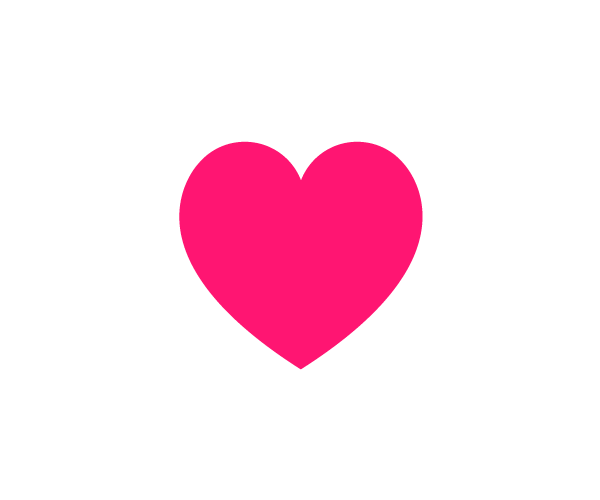
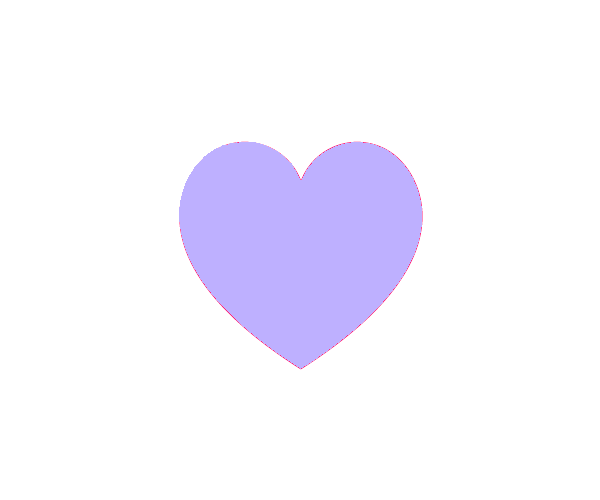
[Design]Css Fix

Changed region(s): [[0.3, 0.27, 0.72, 0.75]]

diff --git a/templates/theater/chart_list.html b/templates/theater/chart_list.html
@@ -39,8 +39,8 @@
                     
                     <div class="swiper-slide">
                       <a data-bs-toggle="modal" data-bs-target="#Modalwhite">
-                      <div class="card my-3" style="width: 100%">
-                        <img src="{{row1.poster.url}}" class="card-img-top" alt="...">
+                      <div class="card my-3" style="width: 100%;height:100%;">
+                        <img src="{{row1.poster.url}}" class="card-img-top" alt="..." style="height: 40rem;">
                         <div class="card-body movie_chart_border">
                           <h5 class="card-title text-center">{{row1.title}}</h5>
                           <span class="stars text-dark me-2 d-flex justify-content-center">{{row1.rating}}</span>
@@ -52,8 +52,8 @@
                     {%else%}
                     <div class="swiper-slide">
                         <a href="{% url 'theater:movie_detail' row1.id %}">
-                        <div class="card" style="width: 100%;">
-                            <img src="{{row1.poster.url}}" class="card-img-top" alt="...">
+                        <div class="card" style="width: 100%; border-radius: 0!important;;">
+                            <img src="{{row1.poster.url}}" class="card-img-top" alt="..." style="height: 40rem;">
                             <div class="card-body movie_chart_border">
                               <h5 class="card-title text-center">{{row1.title}}</h5>
                               <span class="stars text-dark me-2 d-flex justify-content-center">{{row1.rating}}</span>
@@ -117,8 +117,8 @@
                     {%if row2.genre == '성인물(에로)' and current_user.age <= 19%}
                     <div class="swiper-slide">
                       <a data-bs-toggle="modal" data-bs-target="#Modalwhite">
-                      <div class="card" style="width: 100%">
-                          <img src="{{row2.poster.url}}" class="card-img-top" alt="...">
+                      <div class="card" style="width: 100%; border-radius: 0!important;">
+                          <img src="{{row2.poster.url}}" class="card-img-top" alt="..." style="height: 40rem;">
                           <div class="card-body movie_chart_border">
                             <h5 class="card-title text-center">{{row2.title}}</h5>
                             <span class="stars text-dark me-2 d-flex justify-content-center">{{row2.rating}}</span>
@@ -130,8 +130,8 @@
                     {%else%}
                     <div class="swiper-slide">
                         <a href="{% url 'theater:movie_detail' row2.id %}">
-                        <div class="card" style="width: 100%">
-                            <img src="{{row2.poster.url}}" class="card-img-top" alt="...">
+                        <div class="card" style="width: 100%; border-radius: 0!important;">
+                            <img src="{{row2.poster.url}}" class="card-img-top" alt="..." style="height: 40rem;">
                             <div class="card-body movie_chart_border">
                               <h5 class="card-title text-center">{{row2.title}}</h5>
                               <span class="stars text-dark me-2 d-flex justify-content-center">{{row2.rating}}</span>
@@ -178,8 +178,8 @@
                   
                   <div class="swiper-slide">
                     <a data-bs-toggle="modal" data-bs-target="#Modalwhite">
-                    <div class="card" style="width: 100%">
-                        <img src="{{row3.poster.url}}" class="card-img-top" alt="...">
+                    <div class="card" style="width: 100%; border-radius: 0!important;">
+                        <img src="{{row3.poster.url}}" class="card-img-top" alt="..." style="height: 40rem;">
                         <div class="card-body movie_chart_border">
                           <h5 class="card-title text-center">{{row3.title}}</h5>
                           <span class="stars text-dark-2 d-flex justify-content-center">{{row3.rating}}</span>
@@ -192,8 +192,8 @@
                   {%else%}
                   <div class="swiper-slide">
                       <a href="{% url 'theater:movie_detail' row3.id %}">
-                      <div class="card" style="width: 100%">
-                          <img src="{{row3.poster.url}}" class="card-img-top" alt="...">
+                      <div class="card" style="width: 100%; border-radius: 0!important;">
+                          <img src="{{row3.poster.url}}" class="card-img-top" alt="..." style="height: 40rem;">
                           <div class="card-body movie_chart_border">
                             <h5 class="card-title text-center">{{row3.title}}</h5>
                             <span class="stars text-dark me-2 d-flex justify-content-center">{{row3.rating}}</span>

diff --git a/templates/account/mypage.html b/templates/account/mypage.html
@@ -25,12 +25,14 @@
                 <div class="row">
                 {% for review in user.review_set.all %}
                     <div class="col-lg-3 col-sm-6 mb-4  d-flex flex-column mypage-card">
+                        <a href="{% url 'theater:review_detail' pk=review.pk %}">
                         <img class="" src="{{review.movie.poster.url}}" alt="" style="width: 100%; height: 250px; ">
                         <div class=" detail-card-info d-flex align-items-center justify-content-center " style="width: 100%;">
                             <div class="movie-title">{{review.movie.title}}</div>
                             <div class="movie-review-title">{{review.title}}</div>
-                            <a href="{% url 'theater:review_detail' pk=review.pk %}"><button class="detail-review">리뷰바로가기</button></a>
+                           <!-- <button class="detail-review">리뷰바로가기</button> -->
                         </div>
+                        </a>
                     </div>
                 {% endfor %}
                 </div>  
@@ -60,17 +62,38 @@
             <div class="container">
                 <div class="row">
                 {% for movie in user.movie_set.all %}
+
+
+                {% if movie.comeout == '미개봉 및 제작중' %}
                     <div class="col-lg-3 col-sm-6 mb-4  d-flex flex-column mypage-card">
+                        <a href="{% url 'theater:preview_detail' pk=movie.pk %}">
                         <img class="" src="{{movie.poster.url}}" alt="" style="width: 100%; height: 250px; ">
                         <div class=" detail-card-info d-flex align-items-center justify-content-center " style="width: 100%;">
                             <div class="movie-title">{{movie.title}}</div>
-                            {% if movie.comeout == '미개봉 및 제작중' %}
-                            <a href="{% url 'theater:preview_detail' pk=movie.pk %}"><button class="detail-review">영화 디테일로 바로가기</button></a>
-                            {% else %}
-                            <a href="{% url 'theater:movie_detail' pk=movie.id  %}"><button class="detail-review">영화 디테일로 바로가기</button></a>
-                            {% endif %}
+                            
+                           <!-- <button class="detail-review">영화 디테일로 바로가기</button> -->
+                            
+                            <!-- <a href="{% url 'theater:movie_detail' pk=movie.id  %}"><button class="detail-review">영화 디테일로 바로가기</button></a> -->
+                            
                         </div>
+                    </a>
                     </div>
+                    {% else %}
+                    <div class="col-lg-3 col-sm-6 mb-4  d-flex flex-column mypage-card">
+                        <a href="{% url 'theater:movie_detail' pk=movie.id  %}">
+                        <img class="" src="{{movie.poster.url}}" alt="" style="width: 100%; height: 250px; ">
+                        <div class=" detail-card-info d-flex align-items-center justify-content-center " style="width: 100%;">
+                            <div class="movie-title">{{movie.title}}</div>
+                            
+                            <!-- <button class="detail-review">영화 디테일로 바로가기</button></a> -->
+                            
+                        </div>
+                    </a>
+                    </div>
+                    {% endif %}
+
+
+
                 {% endfor %}
                 </div>  
             </div>

diff --git a/templates/theater/movie_detail.html b/templates/theater/movie_detail.html
@@ -18,7 +18,7 @@
             <h3 class="text-start m-0 mb-3">5.0</h3>
       </li>
     </ul>
-    <div class="d-flex flex-column my-3" style="background-color: white;">
+    <div class="d-flex flex-column my-3" >
         <a class="badge rounded-pill bg-dark text-light m-1 p-2" href="{% if movie.url %} {{movie.url}} {% endif %}">영상 링크</a>
         <a class="badge rounded-pill bg-dark text-light m-1 p-2" href="{% if movie.video %} {{movie.video.url}} {% endif %}">예고편</a>
         <a class="badge rounded-pill bg-dark text-light m-1 p-2" href="{% url 'theater:review_enroll' pk=movie.id%}">리뷰 작성</a>
@@ -65,7 +65,7 @@
                                               <p class="mt-3 mb-0">{{review.user}}</p>
                                               <div class="d-flex flex-column">
                                                   <div class="d-flex justify-content-end px-2">{{review.like}}</div>
-                                                  <div class="d-flex justify-content-end"><svg width="20" height="auto" fill="#B1010D" xmlns="http://www.w3.org/2000/svg" viewBox="0 0 512 512"><!--! Font Awesome Pro 6.0.0 by @fontawesome - https://fontawesome.com License - https://fontawesome.com/license (Commercial License) Copyright 2022 Fonticons, Inc. --><path d="M0 190.9V185.1C0 115.2 50.52 55.58 119.4 44.1C164.1 36.51 211.4 51.37 244 84.02L256 96L267.1 84.02C300.6 51.37 347 36.51 392.6 44.1C461.5 55.58 512 115.2 512 185.1V190.9C512 232.4 494.8 272.1 464.4 300.4L283.7 469.1C276.2 476.1 266.3 480 256 480C245.7 480 235.8 476.1 228.3 469.1L47.59 300.4C17.23 272.1 .0003 232.4 .0003 190.9L0 190.9z"/></svg></div>
+                                                  <div class="d-flex justify-content-end"><svg width="20" height="auto" fill="#BEB0FF" xmlns="http://www.w3.org/2000/svg" viewBox="0 0 512 512"><!--! Font Awesome Pro 6.0.0 by @fontawesome - https://fontawesome.com License - https://fontawesome.com/license (Commercial License) Copyright 2022 Fonticons, Inc. --><path d="M0 190.9V185.1C0 115.2 50.52 55.58 119.4 44.1C164.1 36.51 211.4 51.37 244 84.02L256 96L267.1 84.02C300.6 51.37 347 36.51 392.6 44.1C461.5 55.58 512 115.2 512 185.1V190.9C512 232.4 494.8 272.1 464.4 300.4L283.7 469.1C276.2 476.1 266.3 480 256 480C245.7 480 235.8 476.1 228.3 469.1L47.59 300.4C17.23 272.1 .0003 232.4 .0003 190.9L0 190.9z"/></svg></div>
                                               </div>
                                             </div>
                                         </a>
@@ -76,8 +76,10 @@
                     </div>
 
                     <div class="text-center my-5 pt-3">
-                        <a onClick="history.go(-1)"">
-                            <button type="button" class="btn btn-dark rounded-pill my-5 text-center">목록</button>
+                        <a onClick="history.go(-1)">
+        
+
+                            <button type="button" class="movie_list_button">목록</button>
                         </a>
                     </div>
 

diff --git a/static/css/mypage.css b/static/css/mypage.css
@@ -65,7 +65,7 @@
 } */
 
 .detail-card-info {
-  background-color: #fff;
+  background-color: rgb(250,250,250);
   display: flex;
   flex-direction: column;
   justify-content: center;
@@ -82,14 +82,16 @@
 }
 
 .movie-title {
-  margin-top: 0.5rem;
+  margin-top: 1.5rem;
+  margin-bottom:1rem;
   font-weight: bold;
   font-size: 1.6rem;
 }
 
 .movie-review-title {
   margin-top: 0.5rem;
-  font-size: 1rem;
+  margin-bottom:1rem;
+  font-size: 1.5rem;
 }
 
 .user-fix-btn {
@@ -100,4 +102,6 @@
   border-radius: 3rem;
   margin-bottom: 1.5rem;
   margin-left: 1rem;
+  font-size: 1.7rem;
+
 }

diff --git a/templates/theater/review_enroll.html b/templates/theater/review_enroll.html
@@ -24,7 +24,7 @@
 </div>
 <div class="left_text">
     <div class="left_main">현재 영화는?</div>
-    <img src={{movie.poster.url}} style="max-width:27rem;max-height:30rem;margin-top:3rem;"></img>
+    <img src={{movie.poster.url}} style="max-width:23rem;max-height:30rem;margin-top:3rem;"></img>
     <div class="left_main">{{movie.title}}</div>
     <div class="left_sub" style="text-align: start;width: 20rem;margin-left: 3.1rem;height:20rem;font-size: 1.8rem;">
         개봉 | {{movie.release_date}}<br>

diff --git a/templates/account/change_password.html b/templates/account/change_password.html
@@ -3,8 +3,8 @@
 {% load static %}
 {% block content %}
 
-<div class="background d-flex flex-column">
-    <div class="container card">
+<div class="background d-flex flex-column" >
+    <div class="container card" style="height: 65rem;justify-content:center;">
         <div class="fix-title ">비밀번호 변경</div>
         <div class="d-flex flex-column align-items-center ">
             <form method="POST" class="d-flex flex-column" >

diff --git a/templates/account/user_fix.html b/templates/account/user_fix.html
@@ -10,7 +10,7 @@
 <button type="submit" class="btn btn-primary">등록</button> -->
 <div class="background ">
     <div class="container card">
-        <div class="d-flex flex-column align-items-center ">
+        <div class="d-flex flex-column align-items-center " style="height: 65rem;justify-content:center;">
             <div class="fix-title ">회원정보수정</div>
             <form method="POST">
                 {% csrf_token %}

diff --git a/static/css/movie_detail.css b/static/css/movie_detail.css
@@ -25,3 +25,13 @@
     box-shadow: none;
 }
 
+
+.movie_list_button{
+    background-color: black;
+    color: #fff;
+    font-size: 1.5rem;
+    font-weight: bold;
+    border: none;
+    padding: 0.5rem 2rem;
+    border-radius: 3rem;
+  }

diff --git a/static/css/change_password.css b/static/css/change_password.css
@@ -11,8 +11,9 @@
   border-radius: 3rem;
   margin-bottom: 1.5rem;
   margin-left: 1rem;
-}
+  font-size: 1.7rem;
 
+}
 .helptext ul {
   list-style: disc;
 }
